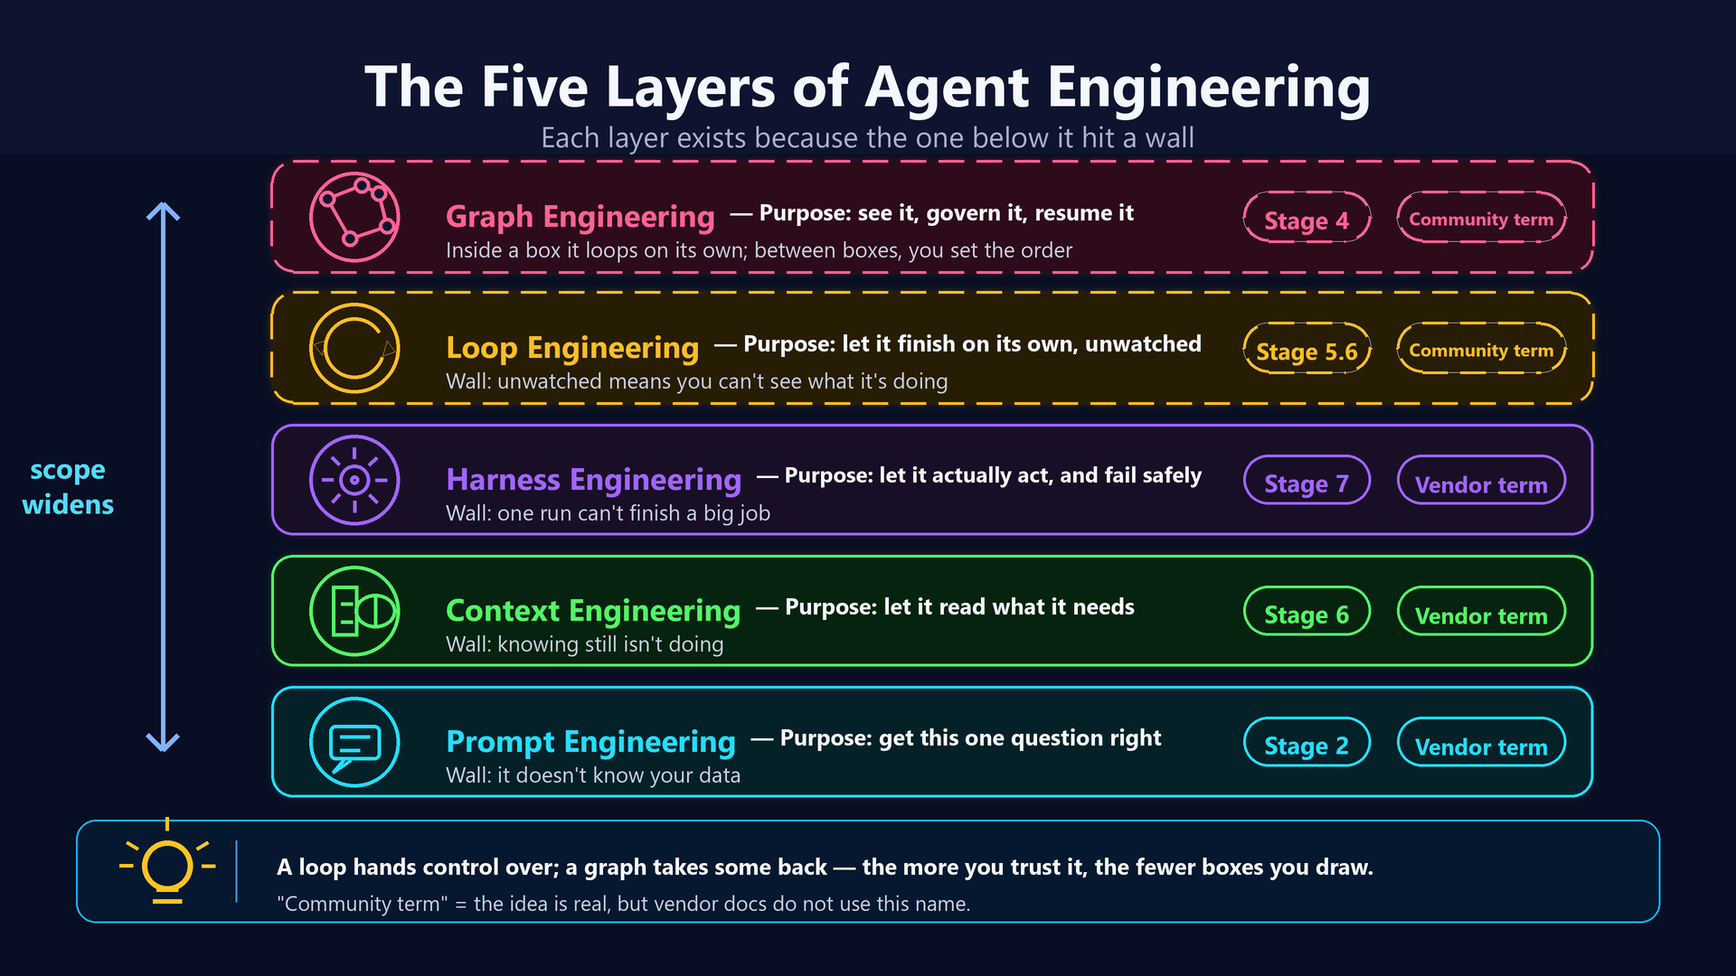
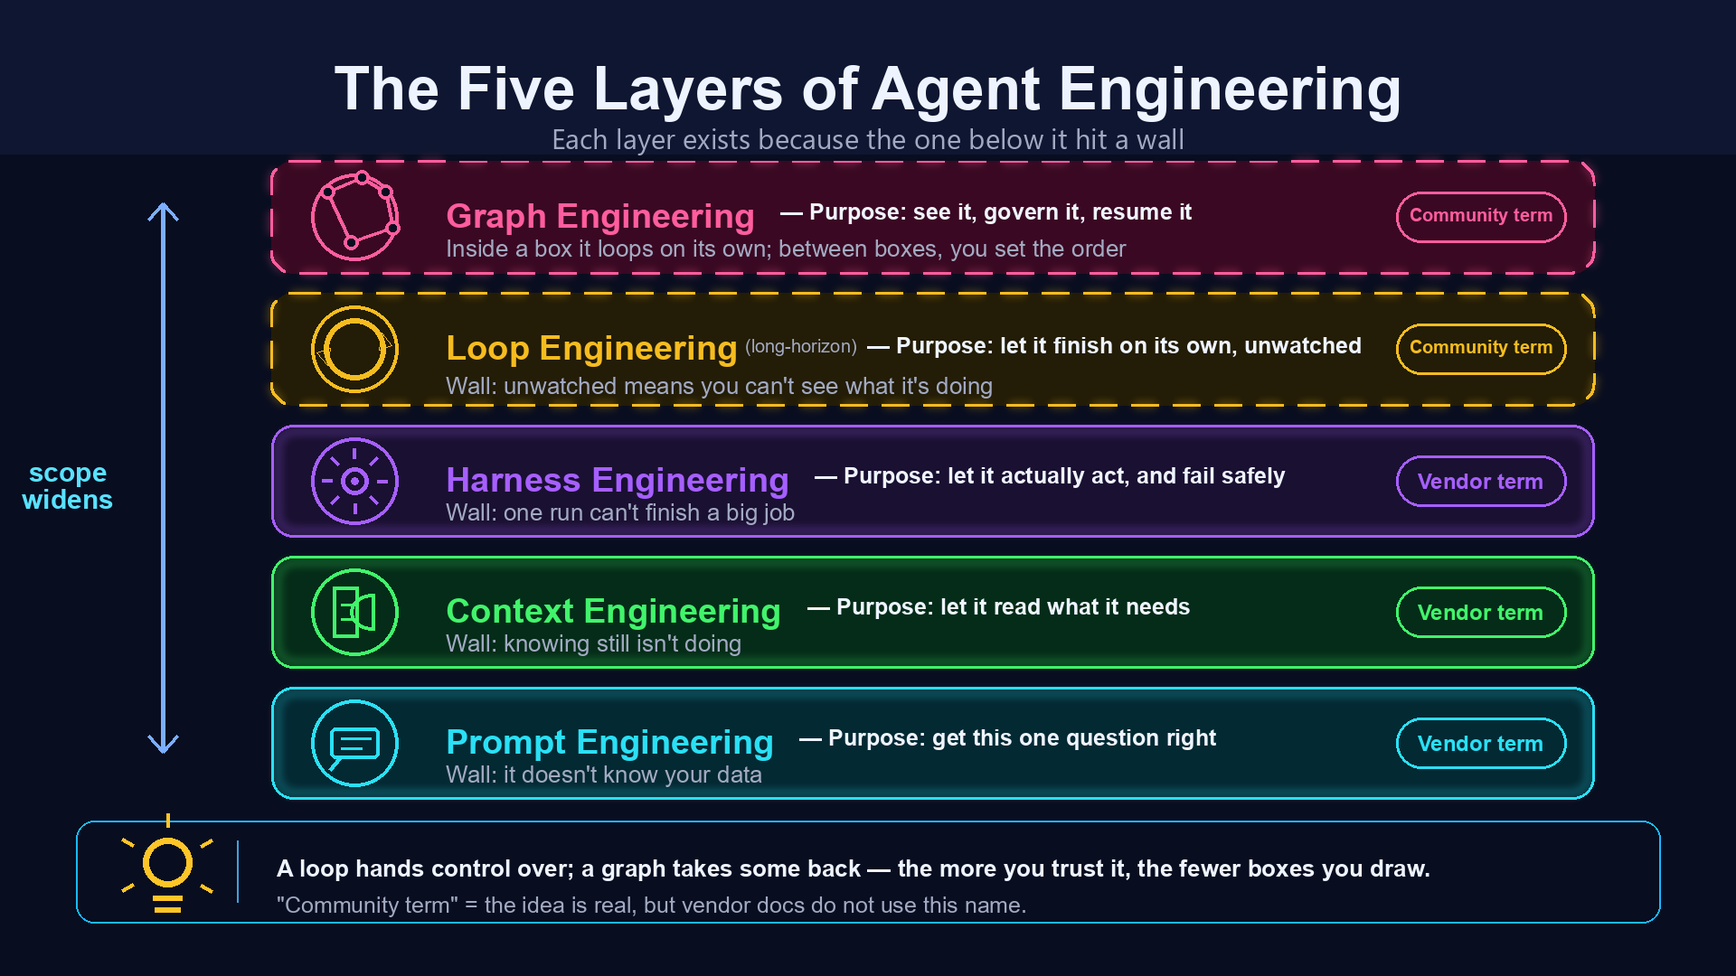
fix(stage-07): disambiguate the two meanings of `loop`, drop Stage-N badge from the 5-layer diagram (#92)
A maintainer reported that the five-layer ladder "looks mis-ordered". Two
separate defects behind that report:

1. The table's stage column runs 2 -> 6 -> 7 -> 5.6 -> 4: the first three
   rows ascend and the last two suddenly reverse. That column is "which
   chapter teaches this", not a reading order. Renamed to the explicit
   form and added a callout saying so.

2. The actual root cause: `loop` carries two meanings in one chapter.
   `Agent loop` is the mechanical LLM -> tool -> result -> LLM cycle inside
   a single run, listed first among the eight harness components; Layer 4
   "Loop Engineering" is long-horizon execution across sessions. Same word,
   one inside the harness and one above it. Disambiguated at four sites in
   stage 07, plus both colliding glossary entries in all three locales
   (six paragraphs) since a reader who is stuck on the word goes to the
   glossary, not to stage 07.

Layer order deliberately unchanged. The ladder is chained by walls, and
layer 3's wall is "one run cannot finish a large job". Collapsing to four
layers leaves that wall answered by Graph, whose stated purpose is
visibility and not duration, so the chain breaks at a load-bearing joint.
This is a naming collision, not a mis-ordering.

Diagram: dropped the per-layer `Stage N` badge (the table has room for the
"not a reading order" caveat, the image does not), added the layer-4
subtitle, and repaired a 921x7 px repaint artifact left by patching rather
[…]

diff --git a/CHANGELOG.md b/CHANGELOG.md
@@ -6,6 +6,19 @@ Format: `YYYY-MM-DD · category · 1-line summary (commit-sha)`.
 
 ---
 
+## 2026-08-13
+
+- **fix** · **維護者回報五層階梯「排序看起來有問題」,查下去發現是兩個不同的毛病**。第一個:表格的「對應 stage」欄由上往下是 `2 → 6 → 7 → 5.6 → 4`——**前三列遞增、後兩列突然倒退**,看起來像階梯排錯(圖上更明顯:堆疊最上層的 Graph 標的是 Stage 4)。實際上那欄是「這個主題在哪一章講」,不是閱讀順序。欄名改成 **「在哪一章講」**,並加一句「**不是閱讀順序**,照 Stage 0 → 8 讀就好」。
+- **fix** · **第二個才是根因:`loop` 這個詞在同一章有兩個意思**。harness 自己的八個核心元件,第一個就叫 `Agent loop`(「LLM → tool → result → LLM」的機械迴圈);而第 4 層又叫 Loop Engineering。**同一個字,一個在 harness 裡面、一個在 harness 上面**,讀起來當然卡。stage 07 四處消歧義:第 4 層加副標 **(長時間執行)**、八元件那格加 **(單次執行內)** 並註明兩者層次不同、圖下補一句指路、白話差異那條點明「不是 harness 裡那個單次執行的機械迴圈」。
+- **fix** · **同一個字在 glossary 也撞,而且讀者卡住時第一個去查的是 glossary,不是 stage 07**。`Agent Loop` 與 `Loop Engineering` 兩條各自獨立,誰都沒提對方。兩條互相加上一句交叉引用(三語共六處)。這是同一個缺陷的另一個表面,不補等於只修了一半。
+- **content** · **沒有把 Loop 層拿掉**。維護者原本的直覺是收成四層(prompt → context → harness → graph),那也站得住。但這份階梯是**用「撞到什麼牆」串起來的**,而第 3 層 harness 撞的牆寫的是「一次跑不完一件大事」。收成四層之後,回答這道牆的就變成 Graph——可是 Graph 自己的目的欄寫的是「看得到、管得住、能重來」,那是**看得見**的問題,不是**跑得久**的問題。鏈子會斷在一個承重的接點上。所以判斷是**命名衝突而非層序排錯**,修命名不動層序。
+- **diagram** · **五層圖同步改版:拿掉每層左邊那顆 `Stage N` 徽章**,只留名稱來源徽章。理由是表格有空間放「不是閱讀順序」這句但書,**圖沒有**——所以圖負責概念與名稱來源,「去哪裡讀」交給表格。第 4 層的層名也加上副標。
+- **fix** · **這張圖改了三輪才對,而且第一輪的缺陷三語不一樣嚴重**。v3 把副標放成**第三行**,但卡片高度沒變:**英文版只是擠、還讀得出來,繁中與简中是真的重疊**——「（長時間執行）」壓到上面 `Loop Engineering` 的字母下緣、又跟下面「撞牆」黏在一起。**CJK 字高比拉丁字母高,同一套三行排版在英文只是擁擠、在中文就是撞在一起**;只看英文版會誤判成可以接受。v4 改成副標與層名**同一行**,每張卡維持兩行。(v3 的 PNG 沒留存,但生成腳本留在委派紀錄裡:副標確實是獨立一行畫的,delegate 自己當下也記了「the new Loop subtitle is colliding with the wall line」。**只有三語嚴重程度的差異**是純文字記錄,無法事後以像素稽核。)
+- **fix** · **v3 同時把兩個中文版的主標副標改壞了,而且沒人發現,一路抄到 v4**。已發布版本是「一層撞牆,才生出下一層」/「一层撞墙,才生出下一层」;v3 的生成腳本裡寫的卻是 `一層撞牆才生出下一層`(逗號沒了)與 `一层撞墙才出下一层`(**逗號沒了,「生」也沒了**)。v4 因為 brief 要求「照現行檔案逐字照抄」,把這兩個錯字原封不動又抄了一輪。**我每一輪都只放大檢查我要求改的那一列,主標那行從頭到尾沒被看過**——改動範圍是一列,重繪範圍是整張,這就是代價。v5 兩處調整才收斂:brief 裡**把三語副標原文逐字寫進去**(不再說「照現行檔案抄」),驗收條件改成**整張圖每一塊文字都裁切放大檢查**。抓到這個字的是 review,不是我。
+- **fix** · **v5 沒有重新生成,而是在舊圖上「清掉一塊再重畫」,清除範圍比標題底色帶多了 7 px**,在三張圖上都留下一條 921×7 px、比背景亮一階的橫向色階(ΔRGB 只有 `(7,9,17)`,1:1 檢視完全看不出來)。**這是純文字的驗收清單結構上抓不到的缺陷**——我用肉眼看了三張全圖都沒發現,是 review 逐像素掃出來的。已把那 7 列補回背景色並驗證色帶底緣三張一致。
+- **chore** · 我第一次描述 v3 缺陷時說「三語都重疊」,放大之後才發現**英文版其實沒有重疊**,只是擠。已在委派 brief 裡改成精確描述——拿不準的問題去要求重做,只會換回一個沒對準的修法。
+- **chore** · **這一輪真正的教訓不是「驗收要更仔細」**。這張圖沒有進版控的生成腳本,所以每一輪 delegate 都得從頭重寫一份繪圖程式——「逐字照抄」會失敗兩次,根因在這裡。把腳本連同文字一起進版控,「文字有沒有飄」就從裁圖瞇眼變成看 diff。列為下一輪待辦。
+
 ## 2026-08-12(第二批)
 
 - **diagram** · **新增第二張圖〈一張「圖」裡面有什麼〉(三語、1920×1080)**,接在 `stages/07`〈迴圈跟圖差在哪〉的核心引言正下方。五層那張回答「有哪五層」,這張回答**下一個問題**:圖到底長什麼樣。刻意畫成**由左到右的流程圖**、跟五層那張的堆疊構圖區隔開。圖上把**迴圈做不到的三件事**畫出來:兩格同時跑、不通過退回、以及**每個 agent 格右上角一個 ⟳ 標「格子裡面它自己繞圈」**——讓「迴圈活在格子裡」變成看得見的東西,而不是只有一句話。四種格子四色四 icon:**agent / 工具 / 驗證 / 人**。

diff --git a/stages/07-multi-agent-production.en.md b/stages/07-multi-agent-production.en.md
@@ -30,16 +30,20 @@ This is the final stage. You are moving from "I can build an agent" to "I can ma
 
 These five layers are **not a difficulty ladder**. They describe **how much scope you are managing**. They are also not a flat list: **each next layer appears because the previous layer hits a wall** (unrelated to "one call vs. many calls"):
 
-| Layer | Concept | Purpose (what it solves) | Wall it hits → why the next layer exists | Corresponding stage | Name source |
+| Layer | Concept | Purpose (what it solves) | Wall it hits → why the next layer exists | Where it is taught | Name source |
 |---|---|---|---|---|---|
 | 1 | **Prompt Engineering** | Ask the right thing this time | It does not know the data you have | [Stage 2](02-prompt-engineering.en.md) | Officially used |
 | 2 | **Context Engineering** | Let it read the right information | It knows, but still cannot act | [Stage 6](06-memory-rag.en.md) | Officially used |
 | **3** | **Harness Engineering**<br>(**This stage**) | Let it actually act without blowing up on errors | One run cannot finish a large job | **This stage** | Officially used |
-| 4 | **Loop Engineering** | Let it finish by itself without you watching | It runs by itself, so you cannot see what it is doing | [Stage 5.6](05-claude-code-ecosystem.en.md) | ⚠ Unofficial name |
+| 4 | **Loop Engineering**<br>(long-horizon) | Let it finish by itself without you watching | It runs by itself, so you cannot see what it is doing | [Stage 5.6](05-claude-code-ecosystem.en.md) | ⚠ Unofficial name |
 | 5 | **Graph Engineering** | Make the process visible, controllable, and resumable | — (currently the outermost layer) | [Stage 4](04-agent-frameworks.en.md) | ⚠ Unofficial name |
 
 ![Agent engineering five-layer stack](../resources/diagrams/agent-engineering-5layer.en.png)
 
+> ⚠ **"Where it is taught" is not a reading order**. Layers 4 and 5 happen to be covered in earlier chapters (5.6 and 4), so that column appears to run backwards as you read down. **Just read Stage 0 → 8 in order**; this column only tells you where to go when you want the detail.
+>
+> ⚠ **Layer 4's "Loop" means long-horizon**: hundreds of steps, picking up again in a new session, deciding when to stop. It shares a name with the `Agent loop` in the harness component table further down (the mechanical cycle inside a single run) but sits at a different level; that table says so again when you reach it.
+>
 > ⚠ **Pay attention to the "Name source" column**. The first three terms are used by vendor documentation (Anthropic has context engineering material, and OpenAI used harness engineering in 2026-02). **The last two are not**: Loop / Graph Engineering are community names. The concepts are real, but Anthropic calls similar mechanisms *dynamic workflows*, while Google ADK and Microsoft Agent Framework use *graph-based workflow(s)*. If you cannot find "graph engineering" in official docs, you are not missing it.
 
 **Plain-language difference**:
@@ -47,7 +51,7 @@ These five layers are **not a difficulty ladder**. They describe **how much scop
 - **Prompt** = design a good way of asking so the model answers correctly this time
 - **Context** = dynamically decide which background, memory, documents, and tool results to include so the model understands the current situation
 - **Harness** = connect prompt, context, tools, state, flow control, and error handling into a system that can actually run
-- **Loop** = give it a goal, let it repeat until the result is good enough, and decide when it should stop
+- **Loop** = give it a goal, let it repeat until the result is good enough, decide when it should stop, and let a fresh session pick up where the last one left off (**not** the single-run mechanical loop inside the harness)
 - **Graph** = split the work into boxes first, draw which box connects to which, and make the process visible and resumable
 
 ### Loop vs. graph: what is the difference?
@@ -150,7 +154,7 @@ To turn an LLM into a usable agent, the first thing you meet is **the first thre
 
 | Component | What it Does | Corresponding Exercise in this Stage |
 |---|---|---|
-| **Agent loop** | The "LLM → tool → result → LLM" loop, stably handling multiple turns | Exercise 1 Multi-agent debate |
+| **Agent loop**<br>(within one run) | The "LLM → tool → result → LLM" loop, stably handling multiple turns. **This is the loop inside a single run**, a different level from Layer 4 Loop Engineering, which is about long-horizon execution across sessions | Exercise 1 Multi-agent debate |
 | **Tool registry** | Dynamic tool dispatch, permission gates, sandboxing | (Present in every framework / SDK) |
 | **Context manager** | Message history management, context window control, auto-compaction | Stage 6 + This stage's Exercise 4 SDK |
 | **Safety layer** | Permission prompts, sandboxed execution, interception of destructive ops | (Built into Claude Code, customizable in SDKs) |

diff --git a/stages/07-multi-agent-production.zh-Hans.md b/stages/07-multi-agent-production.zh-Hans.md
@@ -30,16 +30,20 @@
 
 这五层**不是难度阶梯**，是“**你在管多大范围**”。而且它们不是并列的清单，是**一层撞墙、才生出下一层**（跟“call 一次 vs 多次”无关）：
 
-| 层级 | 概念 | 目的（要解决什么） | 撞到什么墙 → 所以有下一层 | 对应 stage | 名称来源 |
+| 层级 | 概念 | 目的（要解决什么） | 撞到什么墙 → 所以有下一层 | 在哪一章讲 | 名称来源 |
 |---|---|---|---|---|---|
 | 1 | **Prompt Engineering** | 这一次问对 | 它不知道你手上的资料 | [Stage 2](02-prompt-engineering.zh-Hans.md) | 官方采用 |
 | 2 | **Context Engineering** | 让它读到该读的 | 知道了，也还动不了手 | [Stage 6](06-memory-rag.zh-Hans.md) | 官方采用 |
 | **3** | **Harness Engineering**<br>（**本 stage**） | 让它真的动手，出错不炸掉 | 一次跑不完一件大事 | **本 stage** | 官方采用 |
-| 4 | **Loop Engineering** | 让它自己做完，不用你盯 | 它自己跑，你就看不见它在干嘛 | [Stage 5.6](05-claude-code-ecosystem.zh-Hans.md) | ⚠ 非官方名称 |
+| 4 | **Loop Engineering**<br>（长时间执行） | 让它自己做完，不用你盯 | 它自己跑，你就看不见它在干嘛 | [Stage 5.6](05-claude-code-ecosystem.zh-Hans.md) | ⚠ 非官方名称 |
 | 5 | **Graph Engineering** | 看得到、管得住、能重来 | —（目前最外一层） | [Stage 4](04-agent-frameworks.zh-Hans.md) | ⚠ 非官方名称 |
 
 ![Agent 工程五层 Stack](../resources/diagrams/agent-engineering-5layer.zh-Hans.png)
 
+> ⚠ **“在哪一章讲”不是阅读顺序**。第 4、5 层的主题刚好在比较前面的章节出现过（5.6 与 4），所以那一栏由上往下看会“倒退”。**照 Stage 0 → 8 的原顺序读就好**，这一栏只是告诉你想深入时翻哪里。
+>
+> ⚠ **第 4 层的 Loop 是“长时间”的意思**——跑数百步、跨 session 还能接下去、什么时候该停。它跟后面 harness 元件表里那个 `Agent loop`（单次执行内的机械循环）同名但不同层次，读到那里会再讲一次。
+>
 > ⚠ **“名称来源”那一栏要看一下**。前三个词厂商自己的文件在用（Anthropic 有 context engineering 专文、OpenAI 2026-02 用了 harness engineering）。**后两个没有**：Loop / Graph Engineering 是社群讲出来的名字，概念真的成立，但 Anthropic 官方叫 *dynamic workflows*、Google ADK 与 Microsoft Agent Framework 叫 *graph-based workflow(s)*。你去查官方文件查不到“graph engineering”这个词，不是你漏看。
 
 **白话差异**：
@@ -47,7 +51,7 @@
 - **Prompt** = 设计一个好的问法，让模型这次回答准
 - **Context** = 动态决定要放入哪些背景、记忆、文件、工具结果，让模型知道当前情境
 - **Harness** = 把 prompt、context、tools、state、流程控制、错误处理串成一套真的能跑的系统
-- **Loop** = 交代一个目标，让它自己重复做到够好为止，并且决定“什么时候该停”
+- **Loop** = 交代一个目标，让它自己重复做到够好为止，并且决定“什么时候该停”、下次开新 session 还接得下去（**不是** harness 里那个单次执行的机械循环）
 - **Graph** = 先把工作拆成几个格子、画出谁接谁，让过程看得到、能从中间接着跑
 
 ### 循环跟图差在哪（这两个最容易混）
@@ -150,7 +154,7 @@
 
 | 元件 | 做什么 | 对应本 stage 练习 |
 |---|---|---|
-| **Agent loop** | “LLM → tool → result → LLM”循环、稳定处理多轮 | 练习 1 multi-agent 辩论 |
+| **Agent loop**<br>（单次执行内） | “LLM → tool → result → LLM”循环、稳定处理多轮。**这是一次执行里面的循环**，跟上面第 4 层 Loop Engineering 讲的“跨 session 长时间执行”不同层次 | 练习 1 multi-agent 辩论 |
 | **Tool registry** | 动态 tool dispatch、permission gate、sandboxing | （在每个 framework / SDK 都有）|
 | **Context manager** | message history 管理、context window 控制、auto-compact | Stage 6 + 本 stage 练习 4 SDK |
 | **Safety layer** | permission prompts、sandboxed exec、destructive op 拦截 | （Claude Code 内建、SDK 可自定义）|

diff --git a/stages/07-multi-agent-production.md b/stages/07-multi-agent-production.md
@@ -30,16 +30,20 @@
 
 這五層**不是難度階梯**，是「**你在管多大範圍**」。而且它們不是並列的清單，是**一層撞牆、才生出下一層**（跟「call 一次 vs 多次」無關）：
 
-| 層級 | 概念 | 目的（要解決什麼） | 撞到什麼牆 → 所以有下一層 | 對應 stage | 名稱來源 |
+| 層級 | 概念 | 目的（要解決什麼） | 撞到什麼牆 → 所以有下一層 | 在哪一章講 | 名稱來源 |
 |---|---|---|---|---|---|
 | 1 | **Prompt Engineering** | 這一次問對 | 它不知道你手上的資料 | [Stage 2](02-prompt-engineering.md) | 官方採用 |
 | 2 | **Context Engineering** | 讓它讀到該讀的 | 知道了，也還動不了手 | [Stage 6](06-memory-rag.md) | 官方採用 |
 | **3** | **Harness Engineering**<br>（**本 stage**） | 讓它真的動手，出錯不炸掉 | 一次跑不完一件大事 | **本 stage** | 官方採用 |
-| 4 | **Loop Engineering** | 讓它自己做完，不用你盯 | 它自己跑，你就看不見它在幹嘛 | [Stage 5.6](05-claude-code-ecosystem.md) | ⚠ 非官方名稱 |
+| 4 | **Loop Engineering**<br>（長時間執行） | 讓它自己做完，不用你盯 | 它自己跑，你就看不見它在幹嘛 | [Stage 5.6](05-claude-code-ecosystem.md) | ⚠ 非官方名稱 |
 | 5 | **Graph Engineering** | 看得到、管得住、能重來 | —（目前最外一層） | [Stage 4](04-agent-frameworks.md) | ⚠ 非官方名稱 |
 
 ![Agent 工程五層 Stack](../resources/diagrams/agent-engineering-5layer.png)
 
+> ⚠ **「在哪一章講」不是閱讀順序**。第 4、5 層的主題剛好在比較前面的章節出現過（5.6 與 4），所以那一欄由上往下看會「倒退」。**照 Stage 0 → 8 的原順序讀就好**，這一欄只是告訴你想深入時翻哪裡。
+>
+> ⚠ **第 4 層的 Loop 是「長時間」的意思**——跑數百步、跨 session 還能接下去、什麼時候該停。它跟後面 harness 元件表裡那個 `Agent loop`（單次執行內的機械迴圈）同名但不同層次，讀到那裡會再講一次。
+>
 > ⚠ **「名稱來源」那一欄要看一下**。前三個詞廠商自己的文件在用（Anthropic 有 context engineering 專文、OpenAI 2026-02 用了 harness engineering）。**後兩個沒有**：Loop / Graph Engineering 是社群講出來的名字，概念真的成立，但 Anthropic 官方叫 *dynamic workflows*、Google ADK 與 Microsoft Agent Framework 叫 *graph-based workflow(s)*。你去查官方文件查不到「graph engineering」這個詞，不是你漏看。
 
 **白話差異**：
@@ -47,7 +51,7 @@
 - **Prompt** = 設計一個好的問法，讓模型這次回答準
 - **Context** = 動態決定要放入哪些背景、記憶、文件、工具結果，讓模型知道現在情境
 - **Harness** = 把 prompt、context、工具、狀態、流程控制、錯誤處理串成一套可以運作的系統
-- **Loop** = 交代一個目標，讓它自己重複做到夠好為止，並且決定「什麼時候該停」
+- **Loop** = 交代一個目標，讓它自己重複做到夠好為止，並且決定「什麼時候該停」、下次開新 session 還接得下去（**不是** harness 裡那個單次執行的機械迴圈）
 - **Graph** = 先把工作拆成幾個格子、畫出誰接誰，讓過程看得到、能從中間接著跑
 
 ### 迴圈跟圖差在哪（這兩個最容易混）
@@ -150,7 +154,7 @@
 
 | 元件 | 做什麼 | 對應本 stage 練習 |
 |---|---|---|
-| **Agent loop** | 「LLM → tool → result → LLM」迴圈、穩定處理多輪 | 練習 1 multi-agent 辯論 |
+| **Agent loop**<br>（單次執行內） | 「LLM → tool → result → LLM」迴圈、穩定處理多輪。**這是一次執行裡面的迴圈**，跟上面第 4 層 Loop Engineering 講的「跨 session 長時間執行」不同層次 | 練習 1 multi-agent 辯論 |
 | **Tool registry** | 動態 tool dispatch、permission gate、sandboxing | （在每個 framework / SDK 都有）|
 | **Context manager** | message history 管理、context window 控制、auto-compact | Stage 6 + 本 stage 練習 4 SDK |
 | **Safety layer** | permission prompts、sandboxed exec、destructive op 攔截 | （Claude Code 內建、SDK 可自訂）|

diff --git a/resources/glossary.en.md b/resources/glossary.en.md
@@ -132,6 +132,8 @@ Make the LLM output **JSON or another fixed schema** instead of free text. All m
 
 The "LLM → tool → result → LLM" repeated cycle. Termination: LLM says "done" / step budget exhausted / cost cap hit.
 
+⚠ **This is the loop *inside a single run*** — one component of a harness. It shares a name with [Loop Engineering](#loop-engineering), Layer 4 of the five-layer ladder, which governs long-horizon execution *across* sessions. Different levels, same word. The boundary is drawn in [Stage 7](../stages/07-multi-agent-production.en.md).
+
 ### Self-Refine (Basic reflection / no memory)
 
 The agent evaluates the previous round's output and changes the next round's behavior — an "Actor answers → Critic finds issues → Actor reads feedback and answers again" single-session loop. **It does not need a persistent memory layer**; it is purely a reasoning-loop mechanism, a sibling pattern to ReAct. Production agents (Cursor / Cline / Claude Code) run variants of this every day.
@@ -406,6 +408,8 @@ Contrast:
 ### Loop Engineering
 
 Layer 4 in the five-layer engineering split (see [Stage 7](../stages/07-multi-agent-production.en.md), the canonical source for the full ladder and each layer's purpose): designing and tuning an agent's iteration loop itself (goal, tools, context management, termination logic, error handling) so long-running, multi-step, cross-session execution stays reliable and on-target. Related: harness, Dynamic Workflows, ReAct.
+
+⚠ **Do not confuse this with the [Agent Loop](#agent-loop) inside a harness**. This layer governs the long-horizon problem *across many runs*; `Agent Loop` is a harness component governing the mechanical cycle *within one run*.
 
 ### Graph Engineering
 
